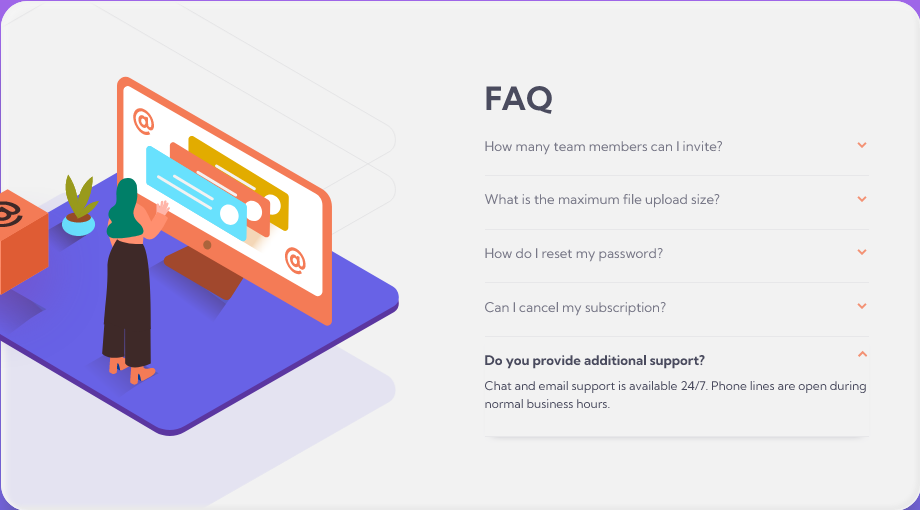
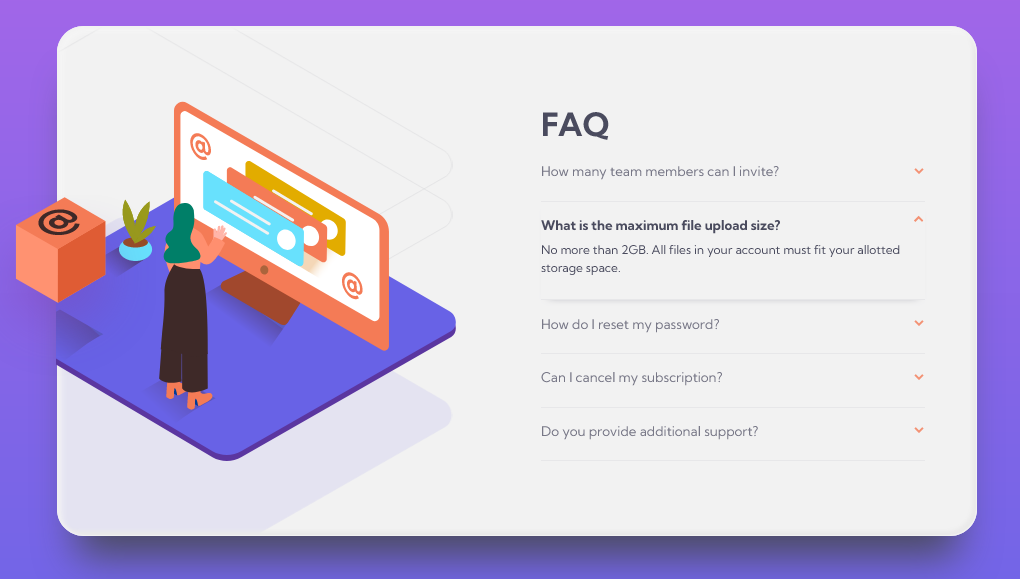
More project info

diff --git a/README.md b/README.md
@@ -2,6 +2,8 @@
 
 This is a solution to the [FAQ accordion card challenge on Frontend Mentor](https://www.frontendmentor.io/challenges/faq-accordion-card-XlyjD0Oam). Frontend Mentor challenges help you improve your coding skills by building realistic projects.
 
+![FAQ accordion component](./screenshots/01%20Screenshot%202022-04-05%20-%20Frontend%20Mentor%20FAQ%20Accordion%20Card.png)
+
 ## Table of contents
 
 -   [Overview](#overview)
@@ -28,7 +30,7 @@ Users should be able to:
 
 ### Screenshot
 
-![Screenshot](./design/desktop-preview_01.png)
+![Screenshot](./screenshots/03%20Screenshot%202022-04-05%20-%20Frontend%20Mentor%20FAQ%20Accordion%20Card.png)
 
 ### Links
 
@@ -53,7 +55,7 @@ Users should be able to:
 
 <!-- Use this section to recap over some of your major learnings while working through this project. Writing these out and providing code samples of areas you want to highlight is a great way to reinforce your own knowledge. -->
 
-This is an entry squeleton to new faq articles:
+This is the squeleton for new faq articles:
 
 ```html
 <article id="article__01" class="faq__article" tabindex="1" accesskey="1">
@@ -103,7 +105,7 @@ $soft-blue: hsl(240, 73%, 65%);
 
 #### JS - Elemet.scrollHeight
 
-With this attribute, [`Elemet.scrollHeight`](https://developer.mozilla.org/es/docs/Web/API/Element/scrollHeight) we achieve the animation to expand the FAQ answers.
+With this attribute, [`Elemet.scrollHeight`](https://developer.mozilla.org/es/docs/Web/API/Element/scrollHeight) we achieve the animation to expand and collapse the FAQ answers.
 
 ```js
 // ./js/behaviour.js
@@ -116,20 +118,37 @@ THX 2 [ Bedimcode ](https://www.youtube.com/watch?v=-ZblPRBjJJw)
 
 ### Continued development
 
-<!-- Use this section to outline areas that you want to continue focusing on in future projects. These could be concepts you're still not completely comfortable with or techniques you found useful that you want to refine and perfect. -->
+The next step is to convert this FAQ accordion into a web component with the help of [LIT](https://lit.dev), a simple library for building fast, lightweight web components.
 
 ### Useful resources
 
--   [Responsive Accordion](https://youtu.be/-ZblPRBjJJw) - This video has helped me to prepare the project to use Sass / SCSS and how to create the accordion behavior to display the responses.
+-   [Sass](https://sass-lang.com/documentation) - A stylesheet language that’s
+    compiled to CSS
+
+<!-- -   [minireset.css](https://jgthms.com/minireset.css/) - A tiny modern CSS reset -->
+
+-   [ITCSS](https://speakerdeck.com/dafed/managing-css-projects-with-itcss?slide=5) -
+    Managing CSS Projects with ITCSS
+
+-   [BEM](http://getbem.com/) - Block Element Modifier is a methodology that
+    helps you to create reusable components and code sharing in front-end
+    development.
+
+-   [LIT element](https://lit.dev/) - Simple & Fast Web Components.
+
+-   [Responsive Accordion](https://youtu.be/-ZblPRBjJJw) - Video to inspire a Responsive Accordion Ui Design Using HTML CSS & JavaScript.
 
 ---
 
 ## Author
 
--   Website - [terremotoBCN](https://github.com/terremotoBCN)
--   Frontend Mentor - [@terremotoBCN](https://www.frontendmentor.io/profile/terremotoBCN)
+-   Frontend Mentor -
+    [@terremotoBCN](https://www.frontendmentor.io/profile/terremotoBCN)
 -   Twitter - [@terremotoBCN](https://www.twitter.com/terremotoBCN)
-
----
+-   WordPress - [@terremotobcn](https://terremotobcn.wordpress.com/)
+-   Tumblr - [@terremotobcn](https://terremotobcn.tumblr.com/)
 
 ## Acknowledgments
+
+Many thanks to [Frontend Mentor](https://www.frontendmentor.io) and its
+fantastic community that allows us to grow and improve as Frontend developers.
